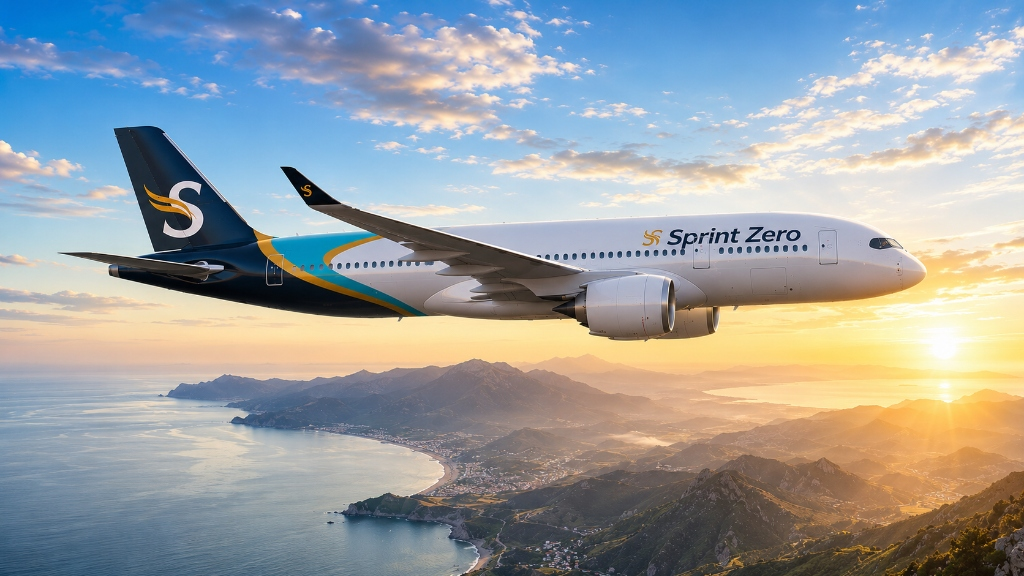
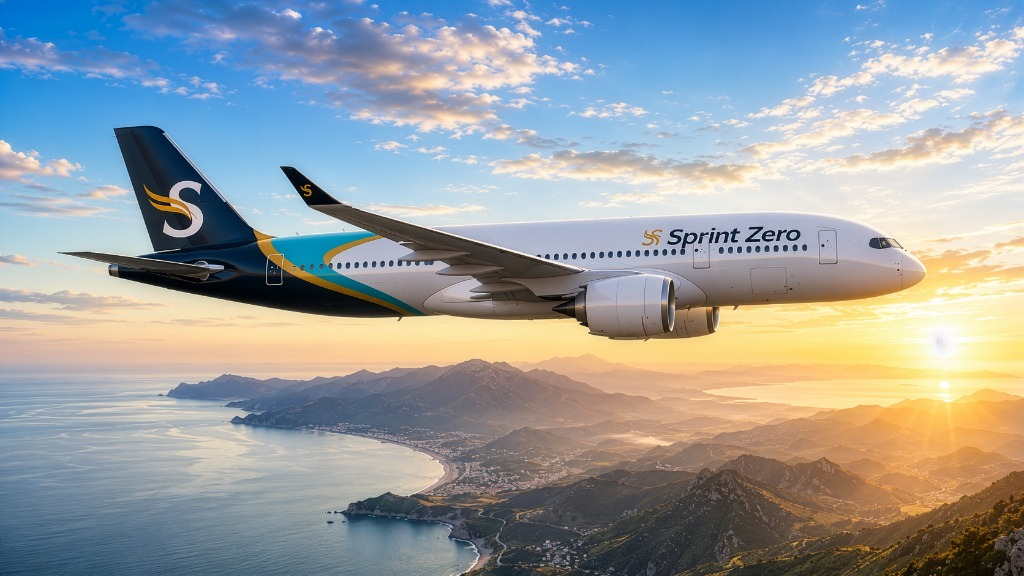
feat(hero): update homepage background with high-def Sprint Zero daylight and night flight images with realistic aerodynamic flight cruise animation

diff --git a/frontend/app/globals.css b/frontend/app/globals.css
@@ -160,40 +160,43 @@ body {
 /* Hero Background - Realistic Flight Cruise Motion & Pixel-Crisp Sharpness */
 .hero-bg {
   position: absolute;
-  top: -15px;
-  left: -15px;
-  right: -15px;
-  bottom: -15px;
-  width: calc(100% + 30px);
-  height: calc(100% + 30px);
+  top: -24px;
+  left: -24px;
+  right: -24px;
+  bottom: -24px;
+  width: calc(100% + 48px);
+  height: calc(100% + 48px);
   background-size: cover;
-  background-position: center center;
+  background-position: center 36%;
   background-repeat: no-repeat;
-  transition: opacity 0.6s ease-in-out;
-  image-rendering: -webkit-optimize-contrast;
-  image-rendering: crisp-edges;
+  transition: opacity 0.8s cubic-bezier(0.4, 0, 0.2, 1);
+  image-rendering: auto;
+  -webkit-font-smoothing: antialiased;
   backface-visibility: hidden;
   -webkit-backface-visibility: hidden;
   will-change: transform;
   transform-style: preserve-3d;
-  animation: flight-cruise 16s cubic-bezier(0.45, 0.05, 0.55, 0.95) infinite;
+  animation: flight-cruise 20s cubic-bezier(0.45, 0.05, 0.55, 0.95) infinite alternate;
 }
 
 @keyframes flight-cruise {
   0% {
-    transform: translate3d(0px, 0px, 0) rotate(0deg);
+    transform: translate3d(0px, 0px, 0) scale(1.02) rotate(0deg);
   }
-  25% {
-    transform: translate3d(-6px, -4px, 0) rotate(-0.3deg);
+  20% {
+    transform: translate3d(-10px, -7px, 0) scale(1.035) rotate(-0.5deg);
   }
-  50% {
-    transform: translate3d(-10px, 2px, 0) rotate(0.2deg);
+  40% {
+    transform: translate3d(-18px, -2px, 0) scale(1.03) rotate(-0.2deg);
   }
-  75% {
-    transform: translate3d(-4px, 5px, 0) rotate(-0.15deg);
+  60% {
+    transform: translate3d(-12px, 9px, 0) scale(1.025) rotate(0.45deg);
+  }
+  80% {
+    transform: translate3d(-4px, 5px, 0) scale(1.03) rotate(0.2deg);
   }
   100% {
-    transform: translate3d(0px, 0px, 0) rotate(0deg);
+    transform: translate3d(8px, -5px, 0) scale(1.02) rotate(-0.4deg);
   }
 }
 

diff --git a/frontend/app/page.js b/frontend/app/page.js
@@ -664,21 +664,21 @@ export default function StitchAirfareCPIApp() {
                 overflow: "hidden",
               }}
             >
-              {/* Day Image */}
+              {/* Day Image (Sprint Zero Daylight Flight) */}
               <div
                 className="hero-bg"
                 style={{
-                  backgroundImage: `url('${getAssetPath("/hero_day.jpg")}')`,
+                  backgroundImage: `url('${getAssetPath("/hero_day.jpg")}?v=3')`,
                   opacity: isDarkMode ? 0 : 1,
                   zIndex: 0,
                 }}
               />
 
-              {/* Night Image */}
+              {/* Night Image (Sprint Zero Night Flight) */}
               <div
                 className="hero-bg"
                 style={{
-                  backgroundImage: `url('${getAssetPath("/hero_night.jpg")}')`,
+                  backgroundImage: `url('${getAssetPath("/hero_night.jpg")}?v=3')`,
                   opacity: isDarkMode ? 1 : 0,
                   zIndex: 0,
                 }}
